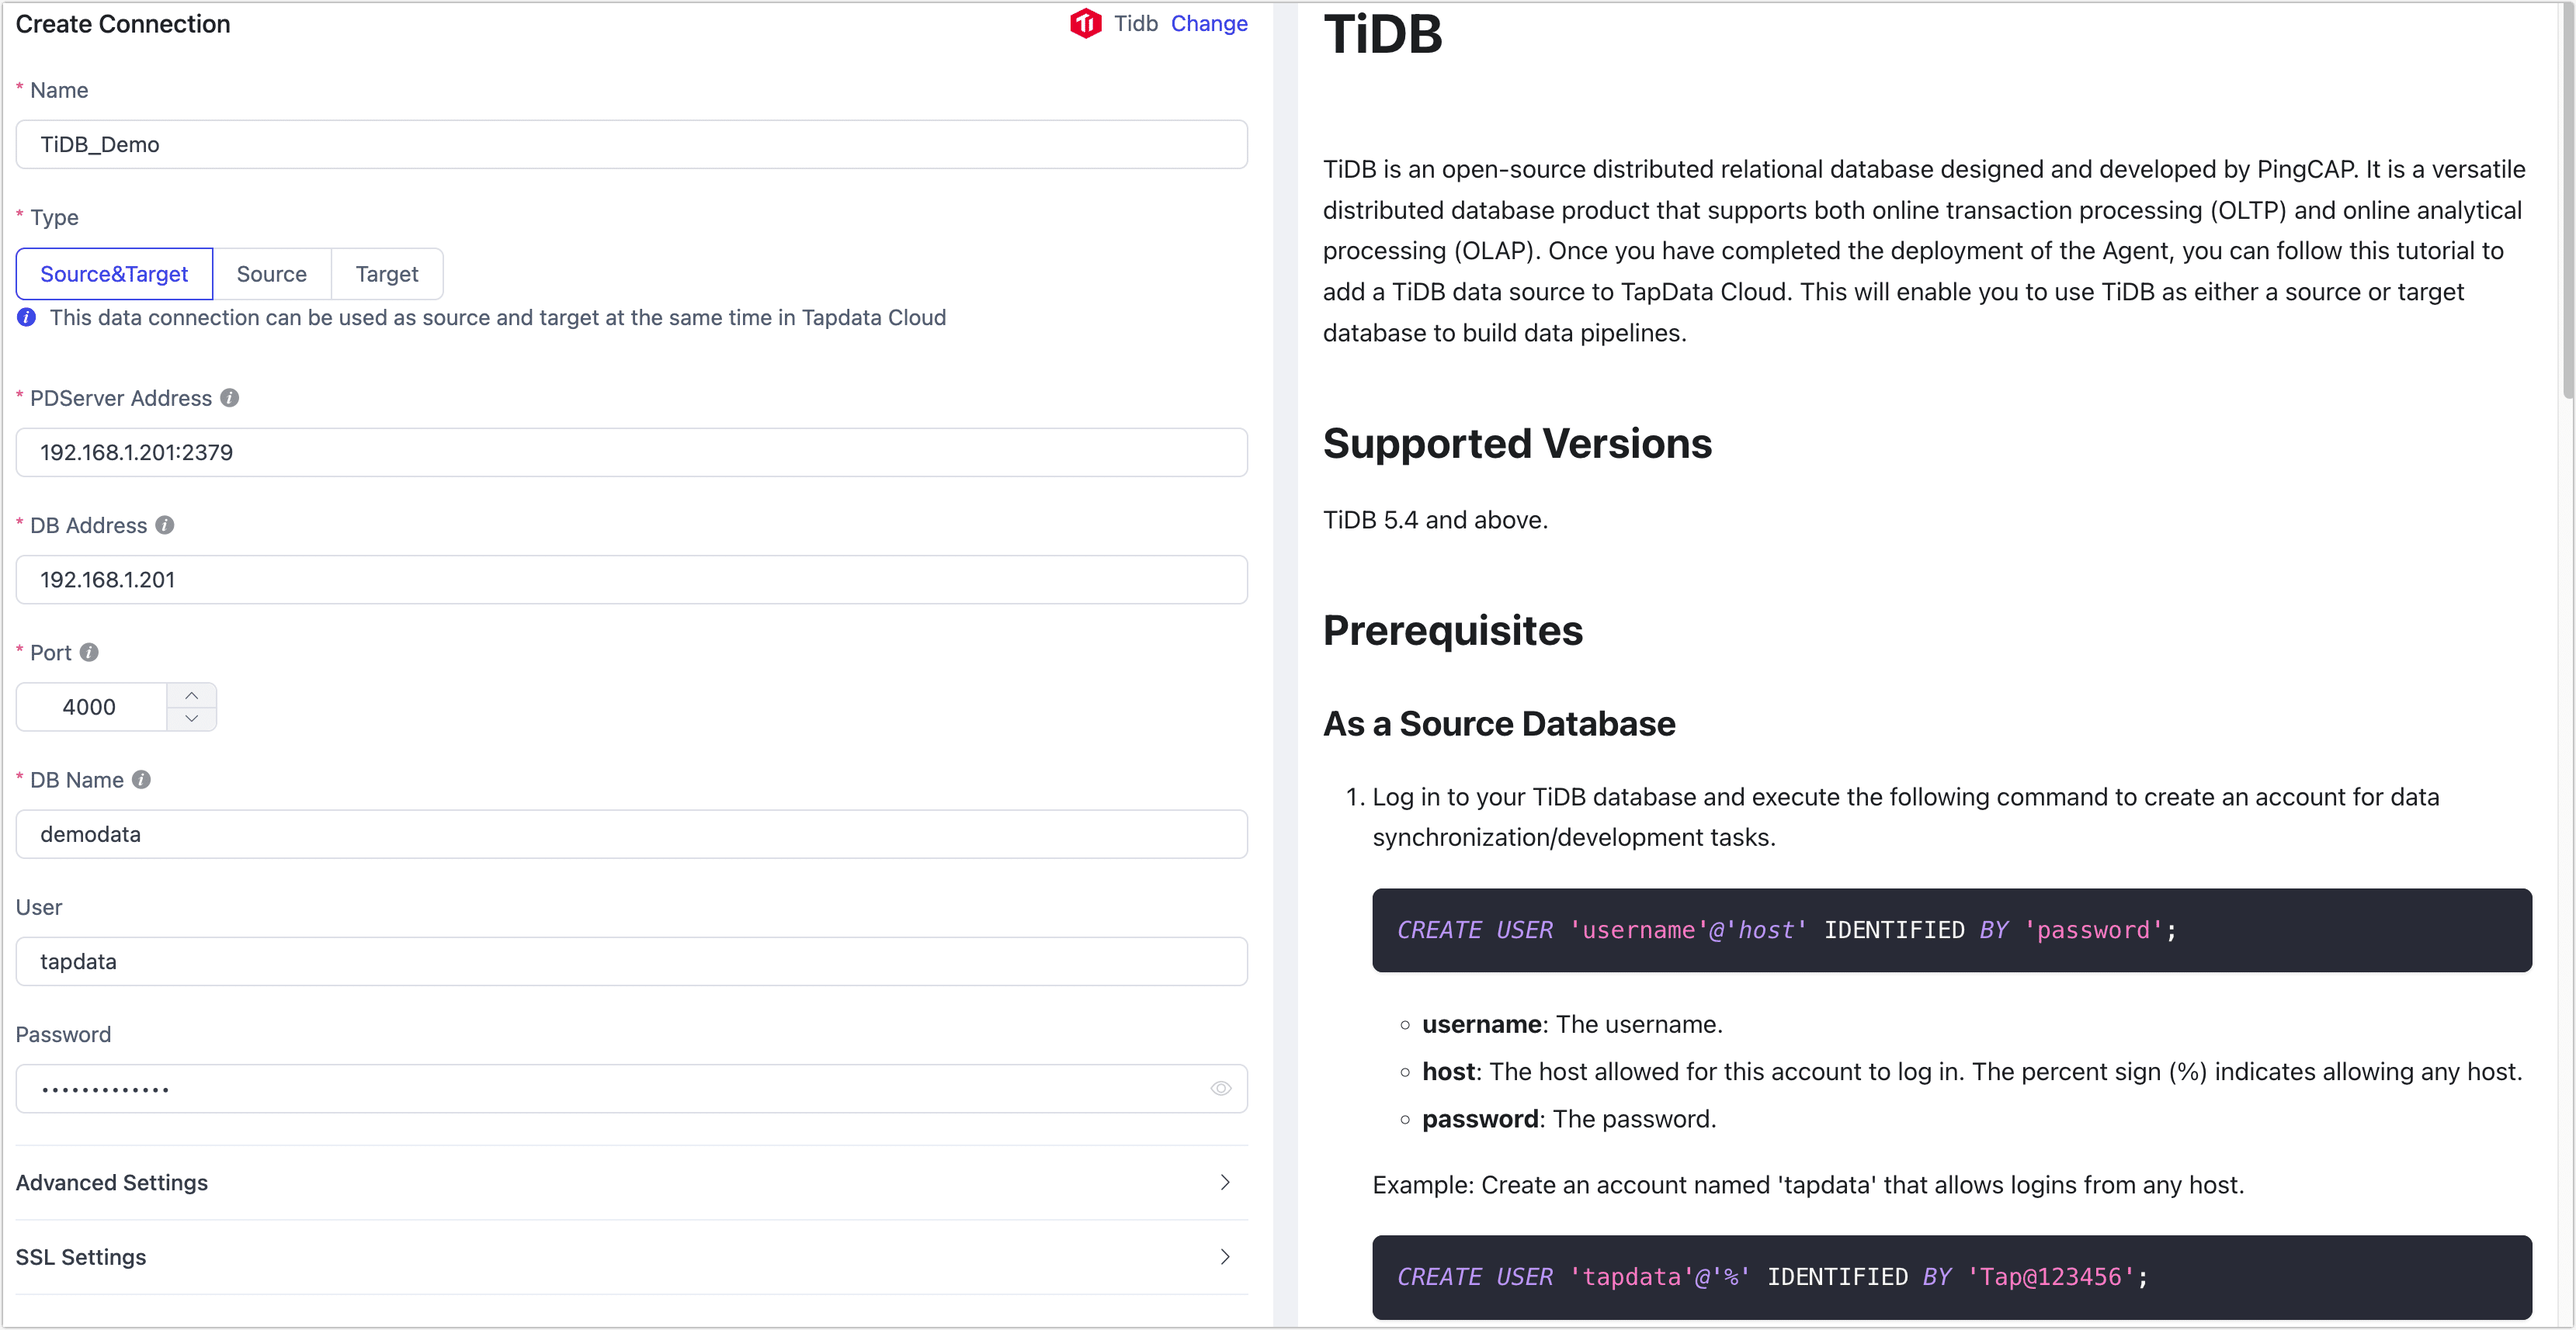
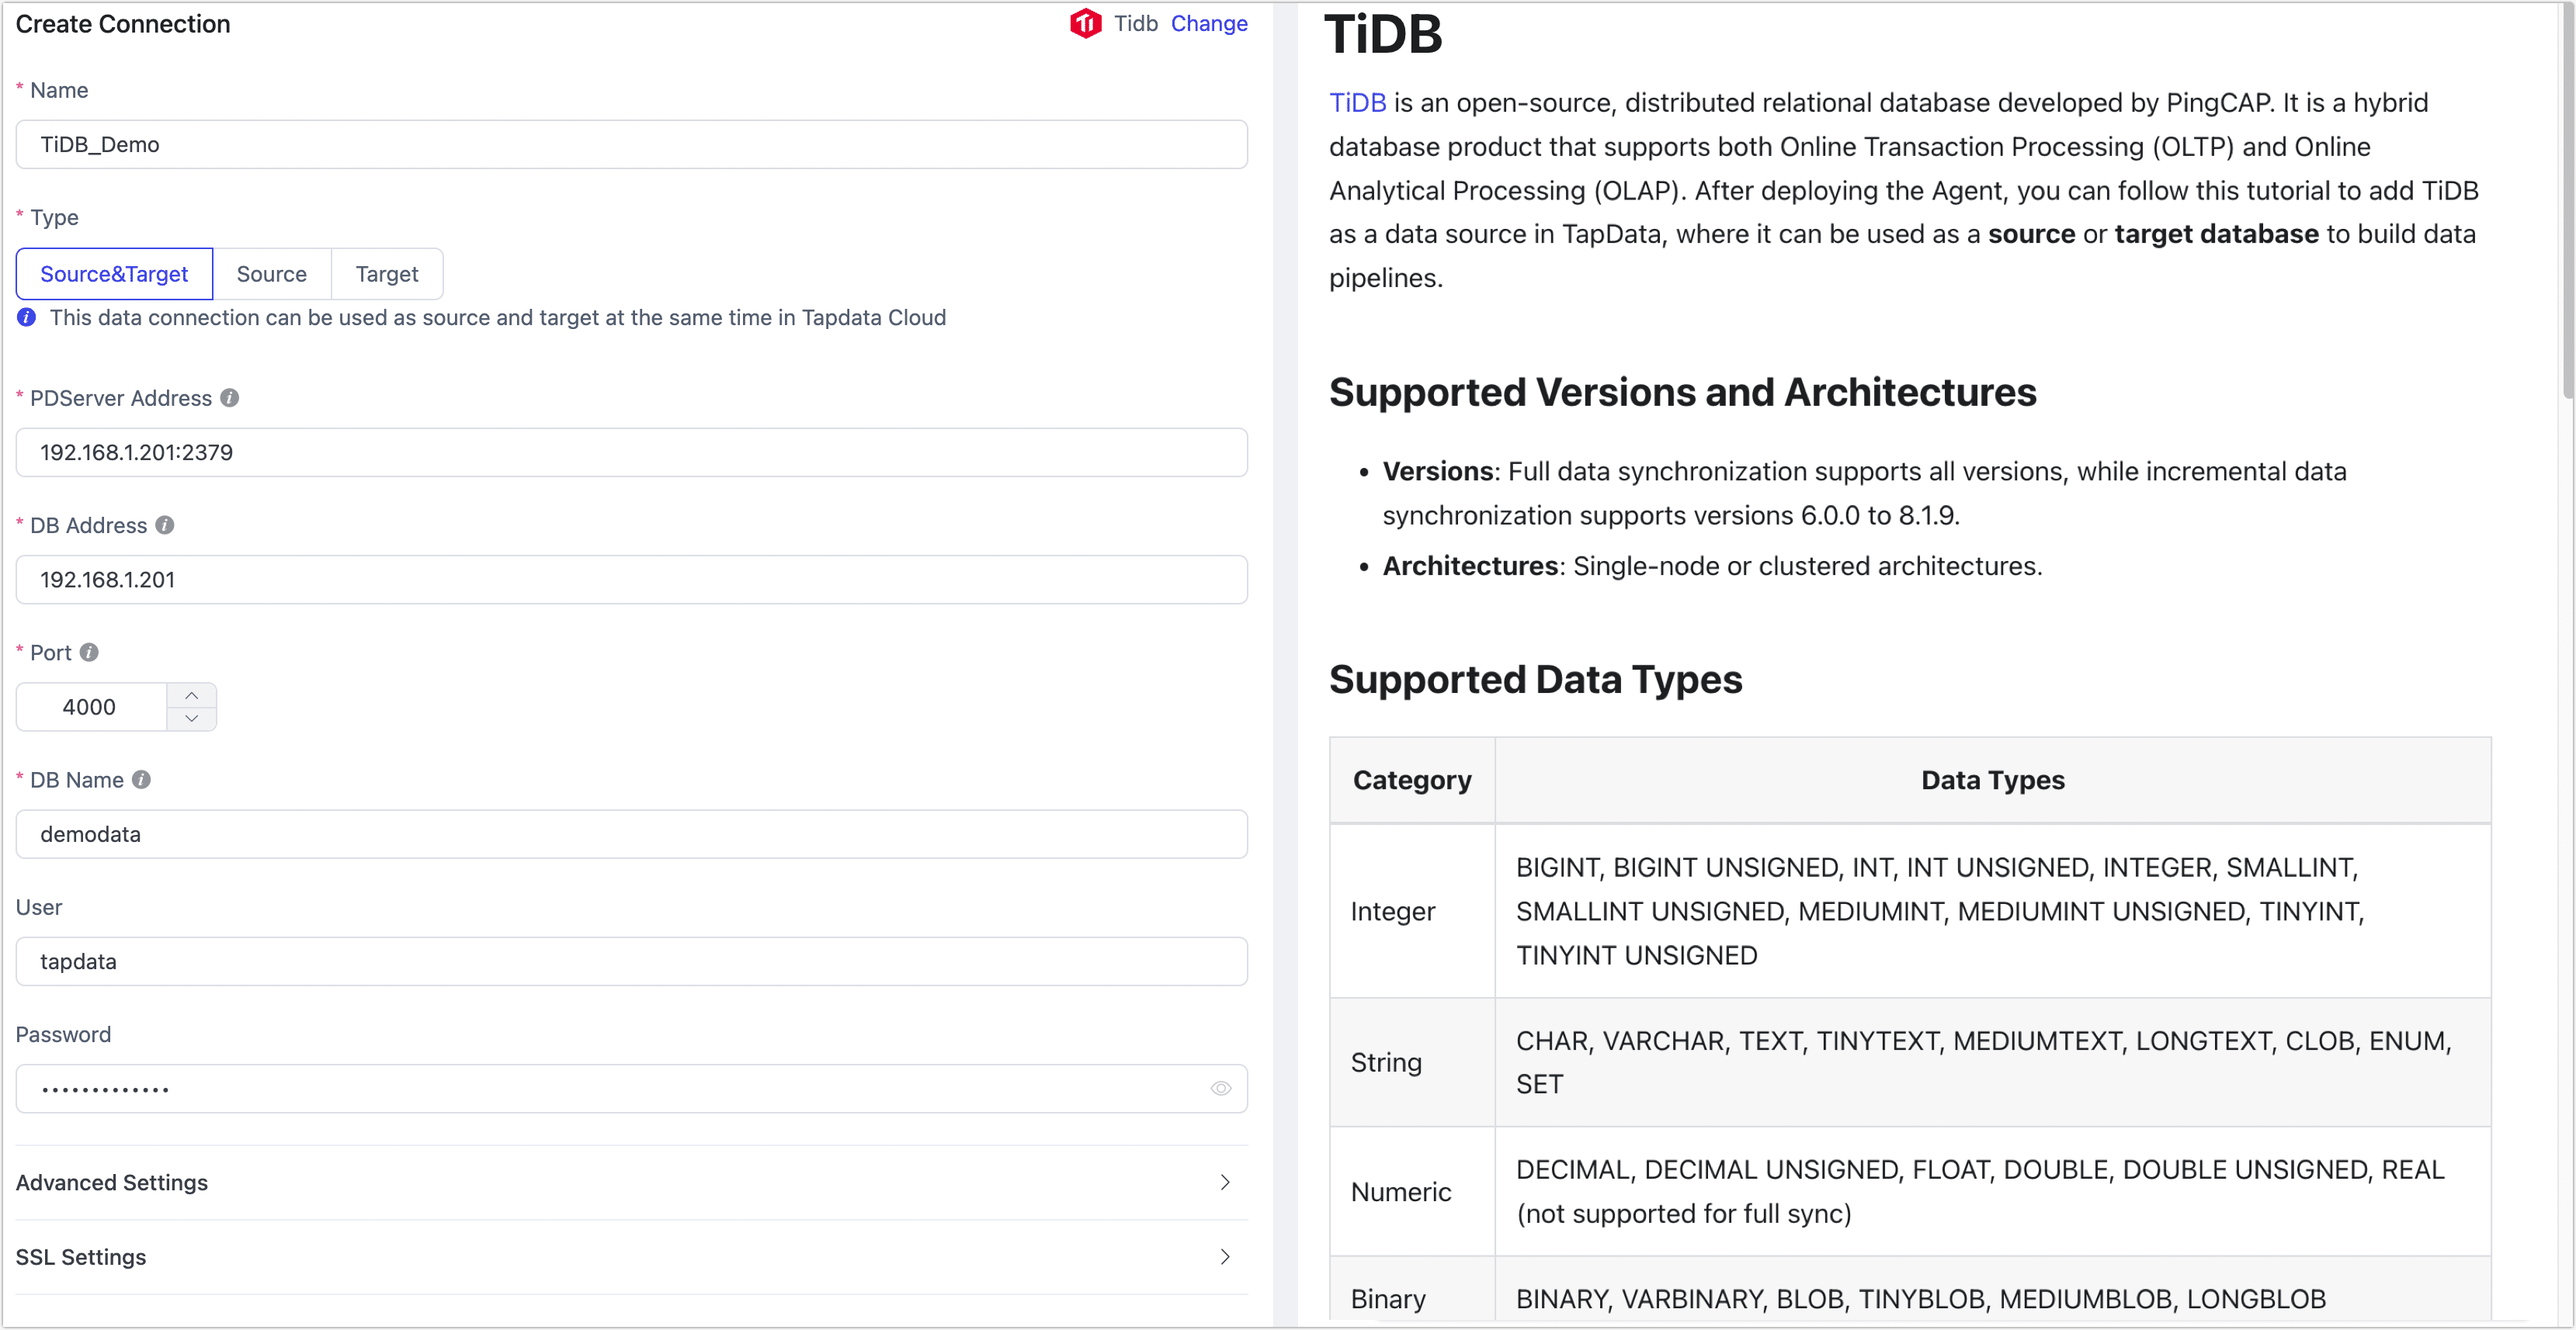
Update TiDB Connection Tutorial

Changed region(s): [[0.4967, 0.4638, 0.9934, 1.0], [0.4967, 0.0618, 0.9934, 0.4329]]

diff --git a/docs/prerequisites/on-prem-databases/tidb.md b/docs/prerequisites/on-prem-databases/tidb.md
@@ -4,7 +4,7 @@ import Content from '../../reuse-content/_enterprise-and-cloud-features.md';
 
 <Content />
 
-[TiDB](https://docs.pingcap.com/zh/tidb/stable) is an open-source, distributed relational database developed by PingCAP. It is a hybrid database product that supports both Online Transaction Processing (OLTP) and Online Analytical Processing (OLAP). After deploying the Agent, you can follow this tutorial to add TiDB as a data source in TapData, where it can be used as a **source** or **target database** to build data pipelines.
+[TiDB](https://docs.pingcap.com/tidb/stable) is an open-source, distributed relational database developed by PingCAP. It is a hybrid database product that supports both Online Transaction Processing (OLTP) and Online Analytical Processing (OLAP). After deploying the Agent, you can follow this tutorial to add TiDB as a data source in TapData, where it can be used as a **source** or **target database** to build data pipelines.
 
 ```mdx-code-block
 import Tabs from '@theme/Tabs';
@@ -28,7 +28,7 @@ import TabItem from '@theme/TabItem';
 | Date/Time    | DATE, TIME, DATETIME, TIMESTAMP, YEAR                        |
 | JSON         | JSON                                                         |
 
-## Supported Operations
+## SQL Operations for Sync
 
 - **DML**: INSERT, UPDATE, DELETE
 
@@ -40,27 +40,27 @@ import TabItem from '@theme/TabItem';
 
 - **DDL**: ADD COLUMN, CHANGE COLUMN, DROP COLUMN, RENAME COLUMN
 
-## Incremental Synchronization Principle
+## Incremental Sync Principle
 
-To simplify the usage process, the TapData TiDB connector integrates with the [TiFlow component](https://github.com/pingcap/tiflow) (version 8.1.0), which parses change logs into ordered row-level changes. For more details, see the [TiCDC Overview](https://docs.pingcap.com/zh/tidb/stable/ticdc-overview).
+To simplify the usage process, the TapData TiDB connector integrates with the [TiFlow component](https://github.com/pingcap/tiflow) (version 8.1.0), which parses change logs into ordered row-level changes. For more details, see the [TiCDC Overview](https://docs.pingcap.com/tidb/stable/ticdc-overview).
 
-## Notes
+## Considerations
 
 * To ensure proper data synchronization, the TiDB cluster and the TapData engine (Agent) must be within the same network and able to communicate properly.
 
 * When using TiDB as a source for incremental data synchronization, please check the following information:
 
-  * Tables to be synchronized must have a primary key or unique index, where the values in the unique index column cannot be NULL and cannot be a virtual column.
+  * Tables to be synchronized must have a primary key or unique index, where the values in the unique index column cannot be **NULL** and cannot be a virtual column.
 
   * To prevent TiCDC's garbage collection from affecting transaction or incremental data extraction, it is recommended to set the global garbage collection life time to 24 hours with the command `SET GLOBAL tidb_gc_life_time = '24h'`.
 
   * TapData engine must be deployed on an **arm or amd** system architecture.
 
-  * Due to communication restrictions between TiDB components, when using the Tapdata Cloud product, the deployed Agent must be a [semi-managed instance](../../faq/agent-installation#semi-and-full-agent).
+  * Due to communication restrictions between TiDB components, when using the Tapdata Cloud product, the deployed Agent must be a [semi-managed instance](../../billing/purchase#semi-and-full-agent.md).
 
 ## <span id="prerequisite">Prerequisites</span>
 
-1. Log in to the TiDB database and create a user account for data synchronization/development tasks using the following command:
+1. Log in to the TiDB database and create a user account for data synchronization/transformation tasks using the following command:
 
    ```sql
    CREATE USER 'username'@'host' IDENTIFIED BY 'password';
@@ -103,10 +103,10 @@ GRANT SELECT, INSERT, UPDATE, DELETE, ALTER, CREATE, DROP ON *.* TO 'username';
 * **database_name**: The database name.
 * **username**: The username.
 
-## Adding the Data Source
-1. [Log in to the TapData platform](../../user-guide/log-in.md).
+## Connect to TiDB
+1. [Log in to TapData platform](../../user-guide/log-in.md).
 
-2. In the left navigation bar, click **Connection Management**.
+2. In the left navigation bar, click **Connections**.
 
 3. On the right side of the page, click **Create**.
 
@@ -134,7 +134,7 @@ GRANT SELECT, INSERT, UPDATE, DELETE, ALTER, CREATE, DROP ON *.* TO 'username';
       * **Agent Settings**: Defaults to Platform automatic allocation, you can also manually specify an agent.
       * **Model Load Time**: If there are less than 10,000 models in the data source, their schema will be updated every hour. But if the number of models exceeds 10,000, the refresh will take place daily at the time you have specified.
       * **Enable Heartbeat Table**: When the connection type is **Source&Target** or **Source**, you can enable this switch. TapData will create a _tapdata_heartbeat_table heartbeat table in the source database and update it every 10 seconds (requires appropriate permissions) to monitor the health of the data source connection and tasks. The heartbeat task starts automatically after the data replication/development task starts, and you can view the [heartbeat task](../../best-practice/heart-beat-task.md) in the data source editing page.
-   * **SSL Settings**: Choose whether to enable SSL connection to the data source for enhanced data security. After enabling this feature, you will need to upload a CA file, client certificate, and key, and fill in the client password. For more information, see [Generating Self-Signed Certificates](https://docs.pingcap.com/zh/tidb/stable/generate-self-signed-certificates).
+   * **SSL Settings**: Choose whether to enable SSL connection to the data source for enhanced data security. After enabling this feature, you will need to upload a CA file, client certificate, and key, and fill in the client password. For more information, see [Generating Self-Signed Certificates](https://docs.pingcap.com/tidb/stable/generate-self-signed-certificates).
    
 6. Click **Test**. After the test passes, click **Save**.
 
